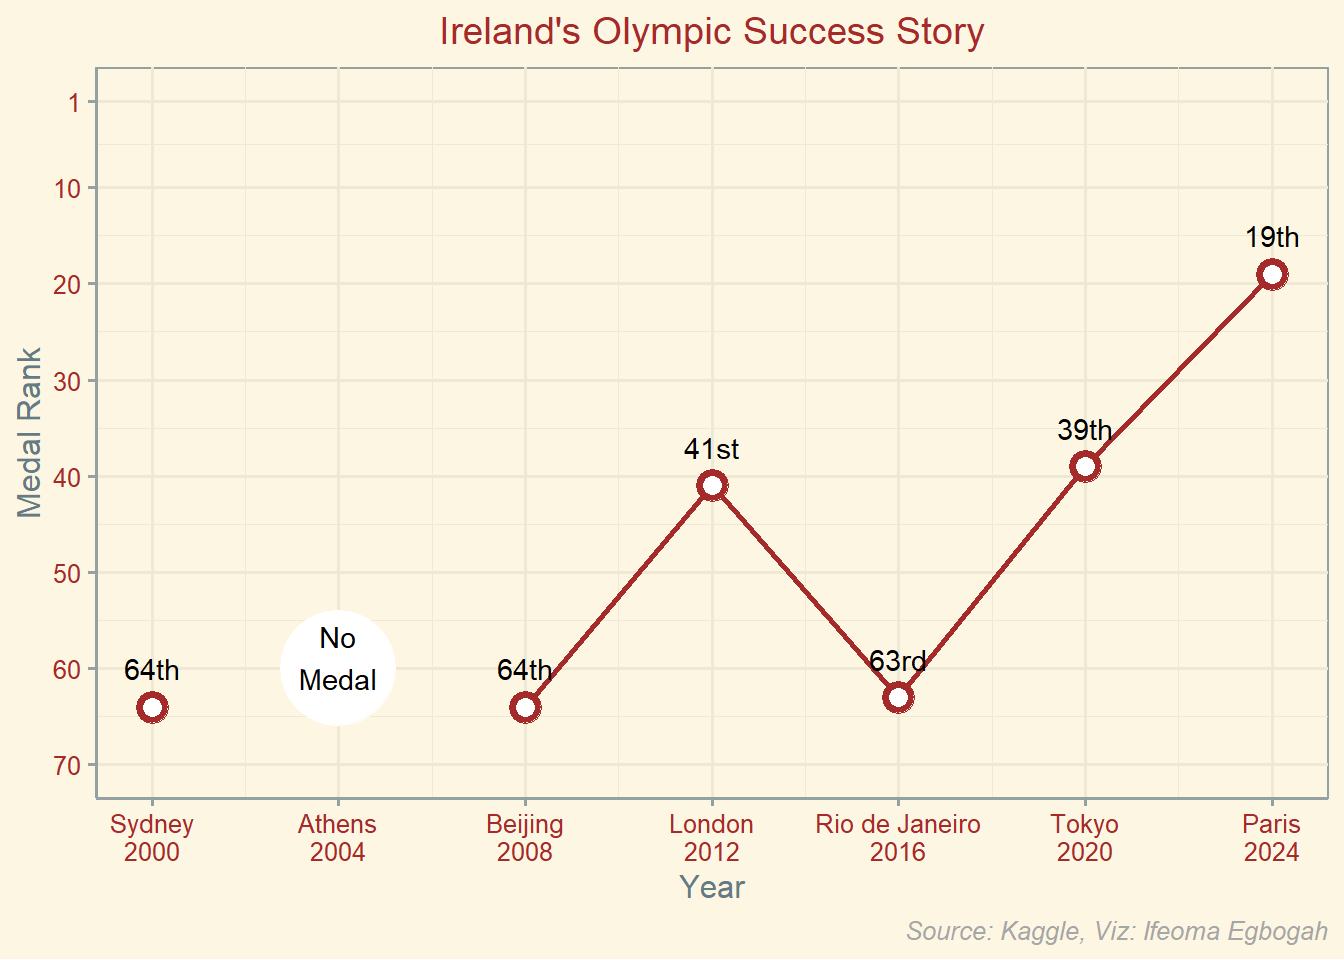
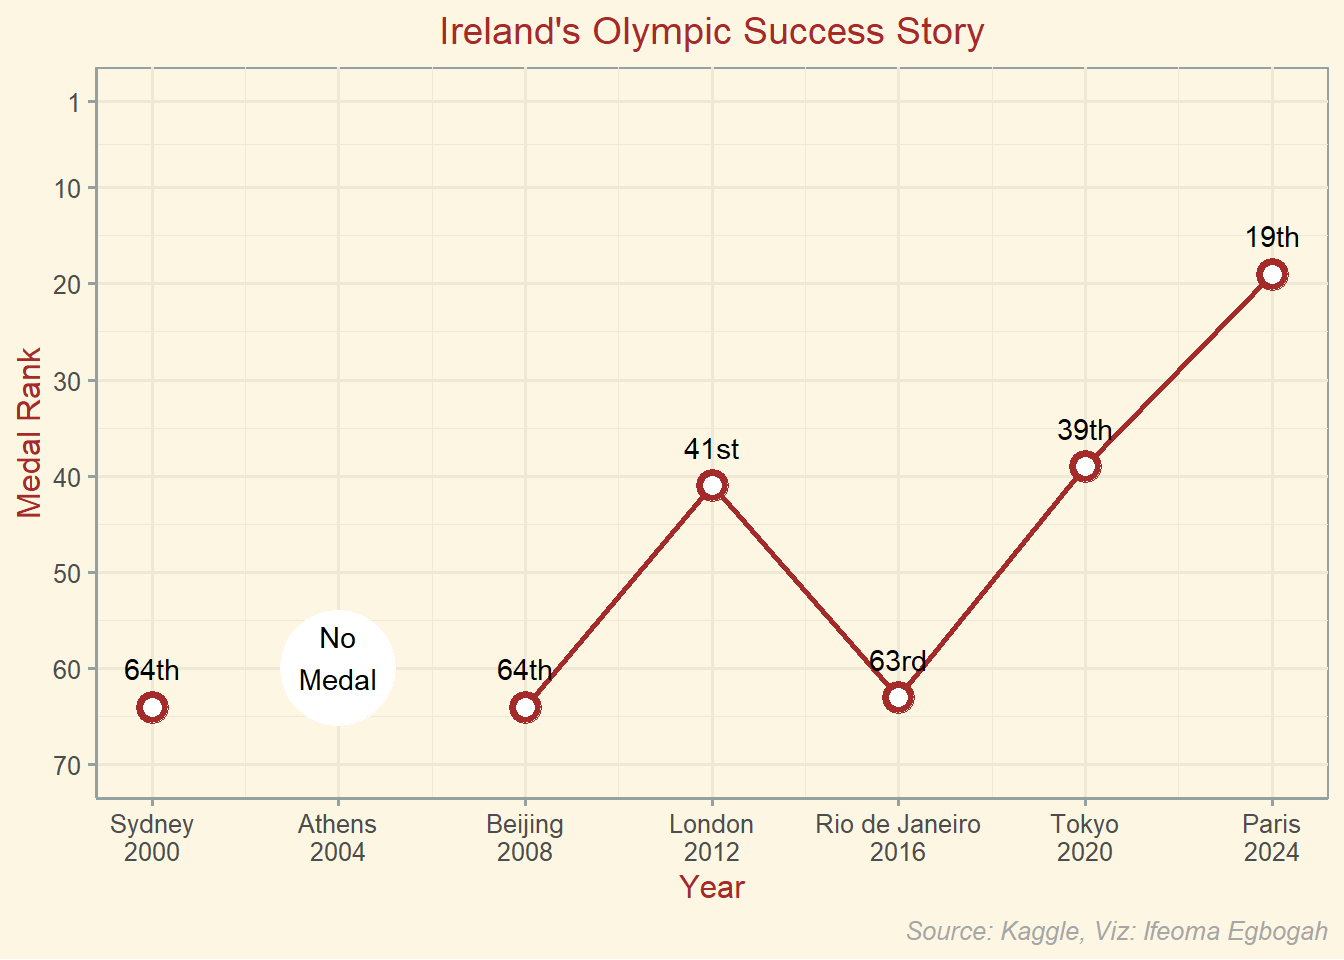
irish 7

diff --git a/content/blog/Bad-Chart/Bad-Chart.md b/content/blog/Bad-Chart/Bad-Chart.md
@@ -117,7 +117,7 @@ chart <- ireland %>%
        caption = "Source: Kaggle, Viz: Ifeoma Egbogah") +
   theme(plot.caption = element_text(colour = "grey65", face = "italic"),
         plot.title = element_text(hjust = 0.5, colour = "brown"),
-        axis.text = element_text(colour = "brown"))
+        axis.title = element_text(colour = "brown"))
 ```
 {{< /panel >}}
 {{< /panelset >}}
